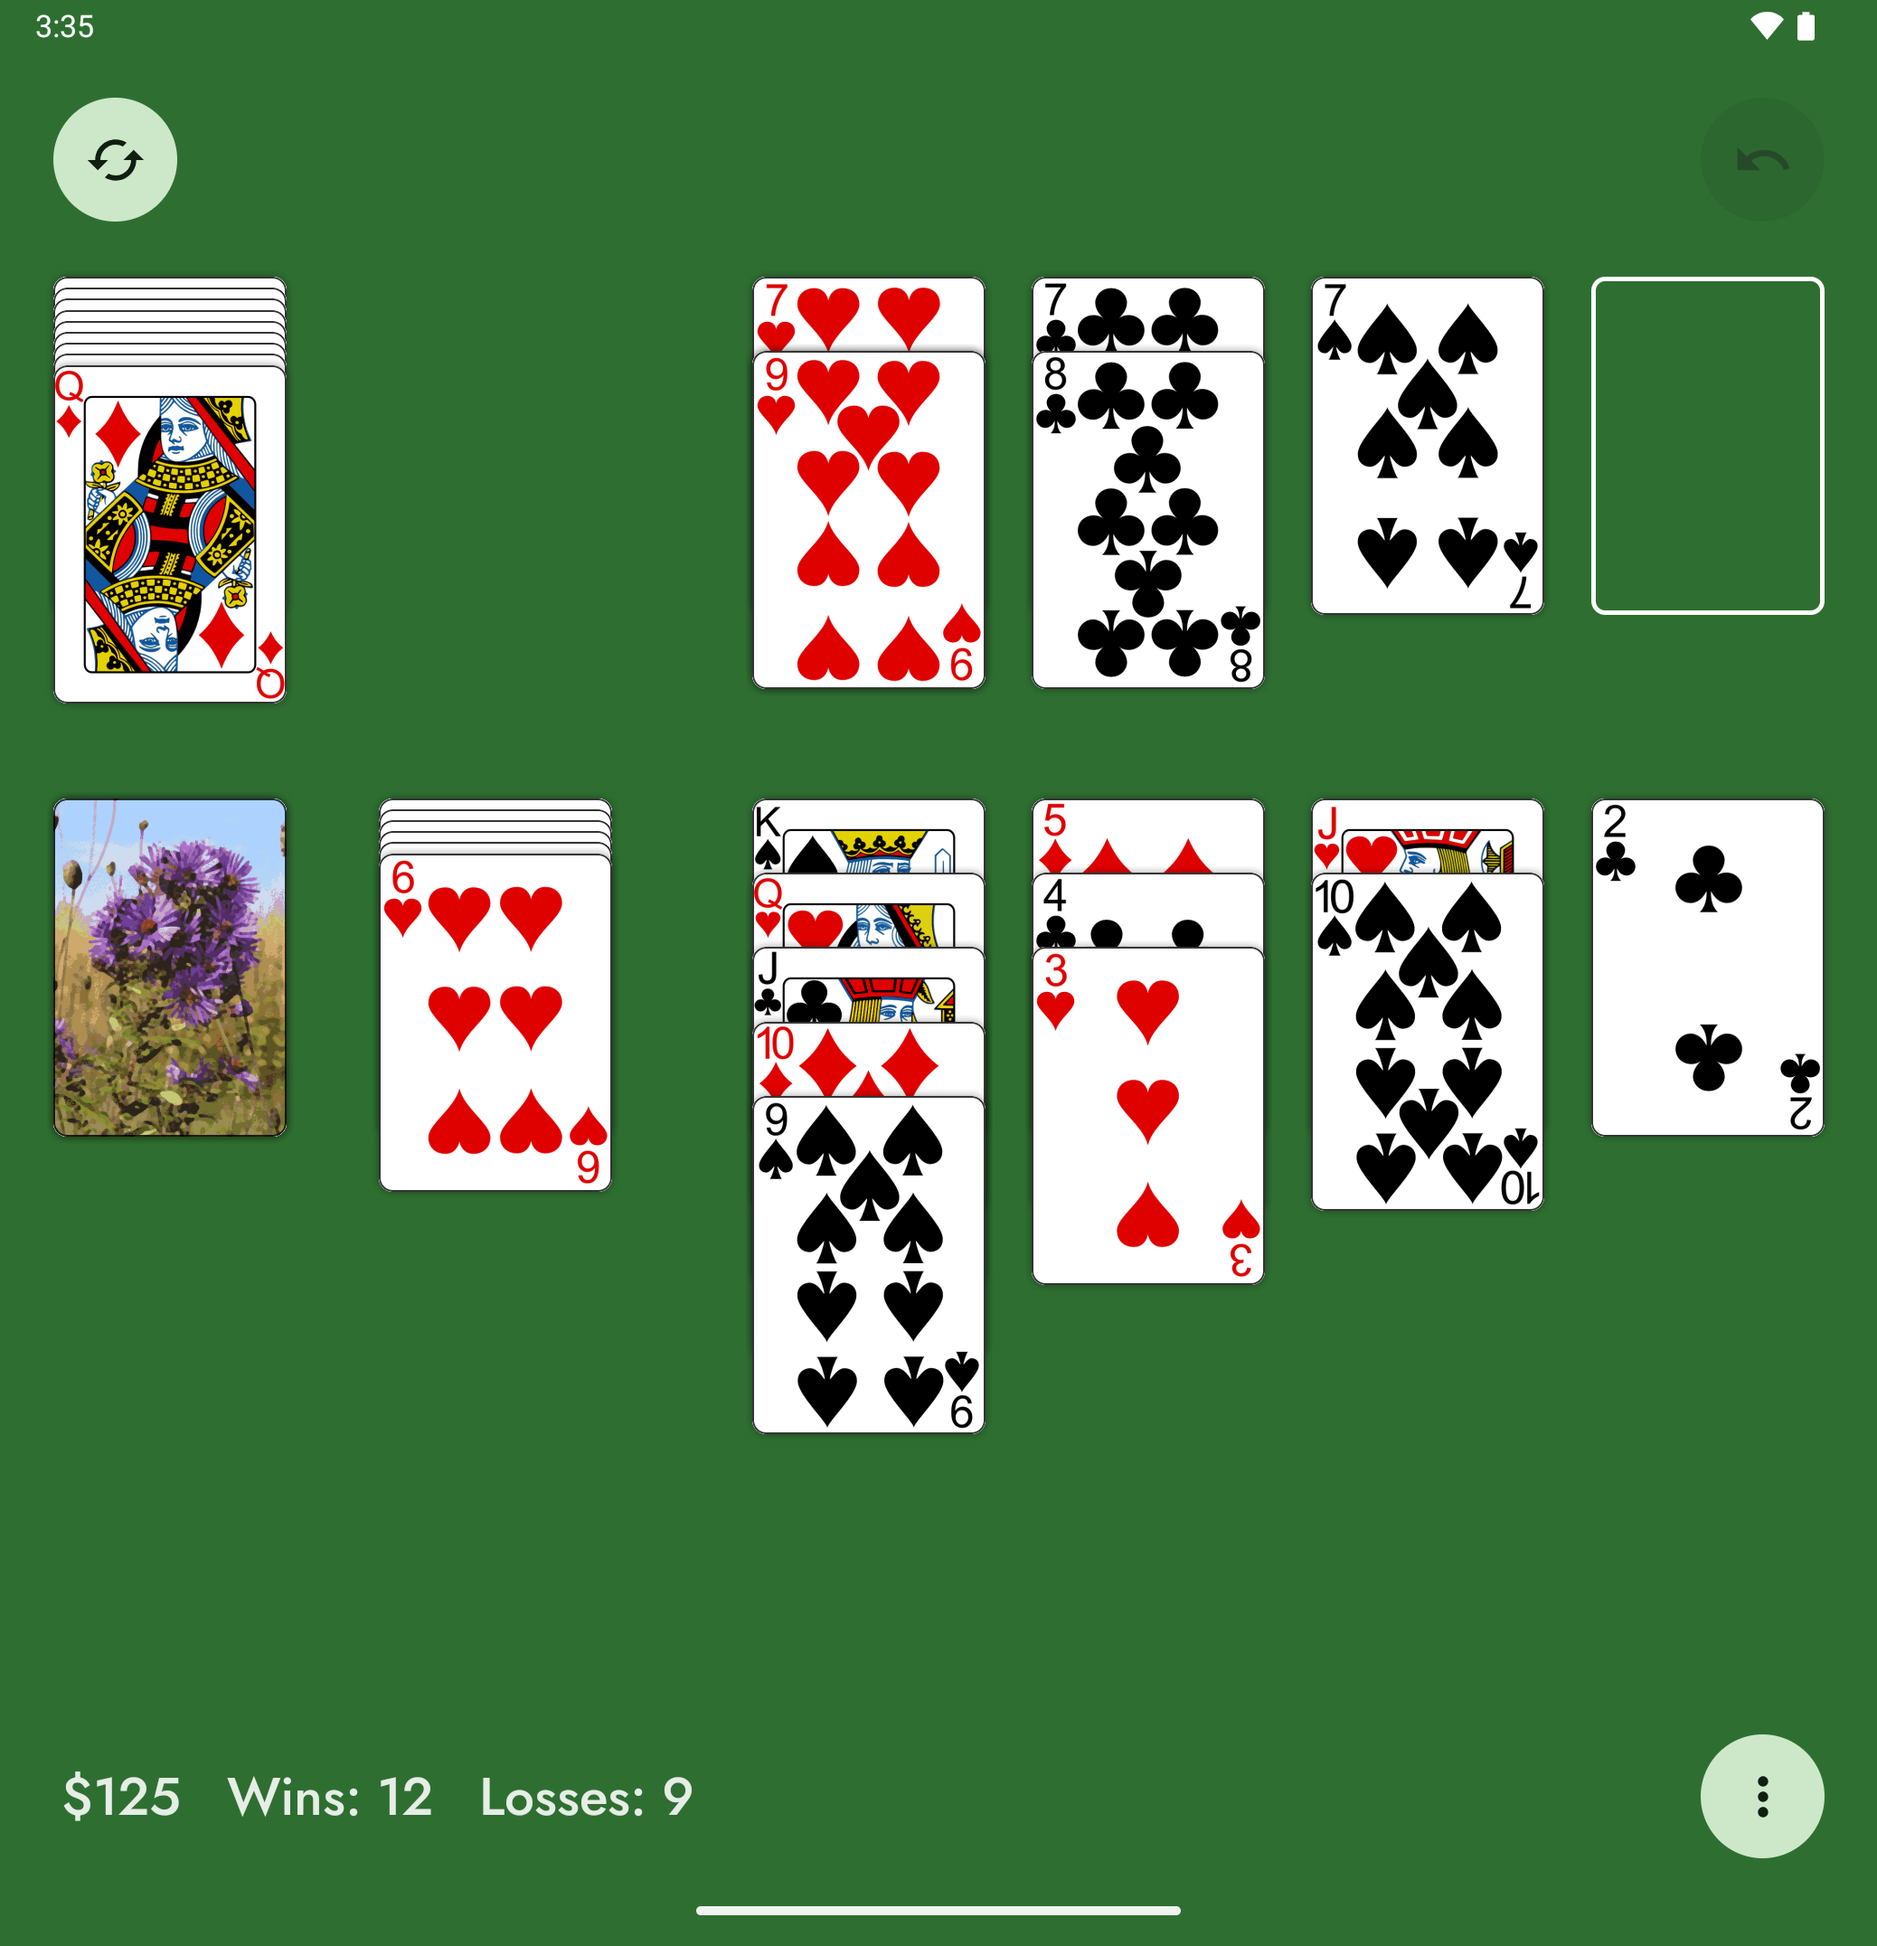
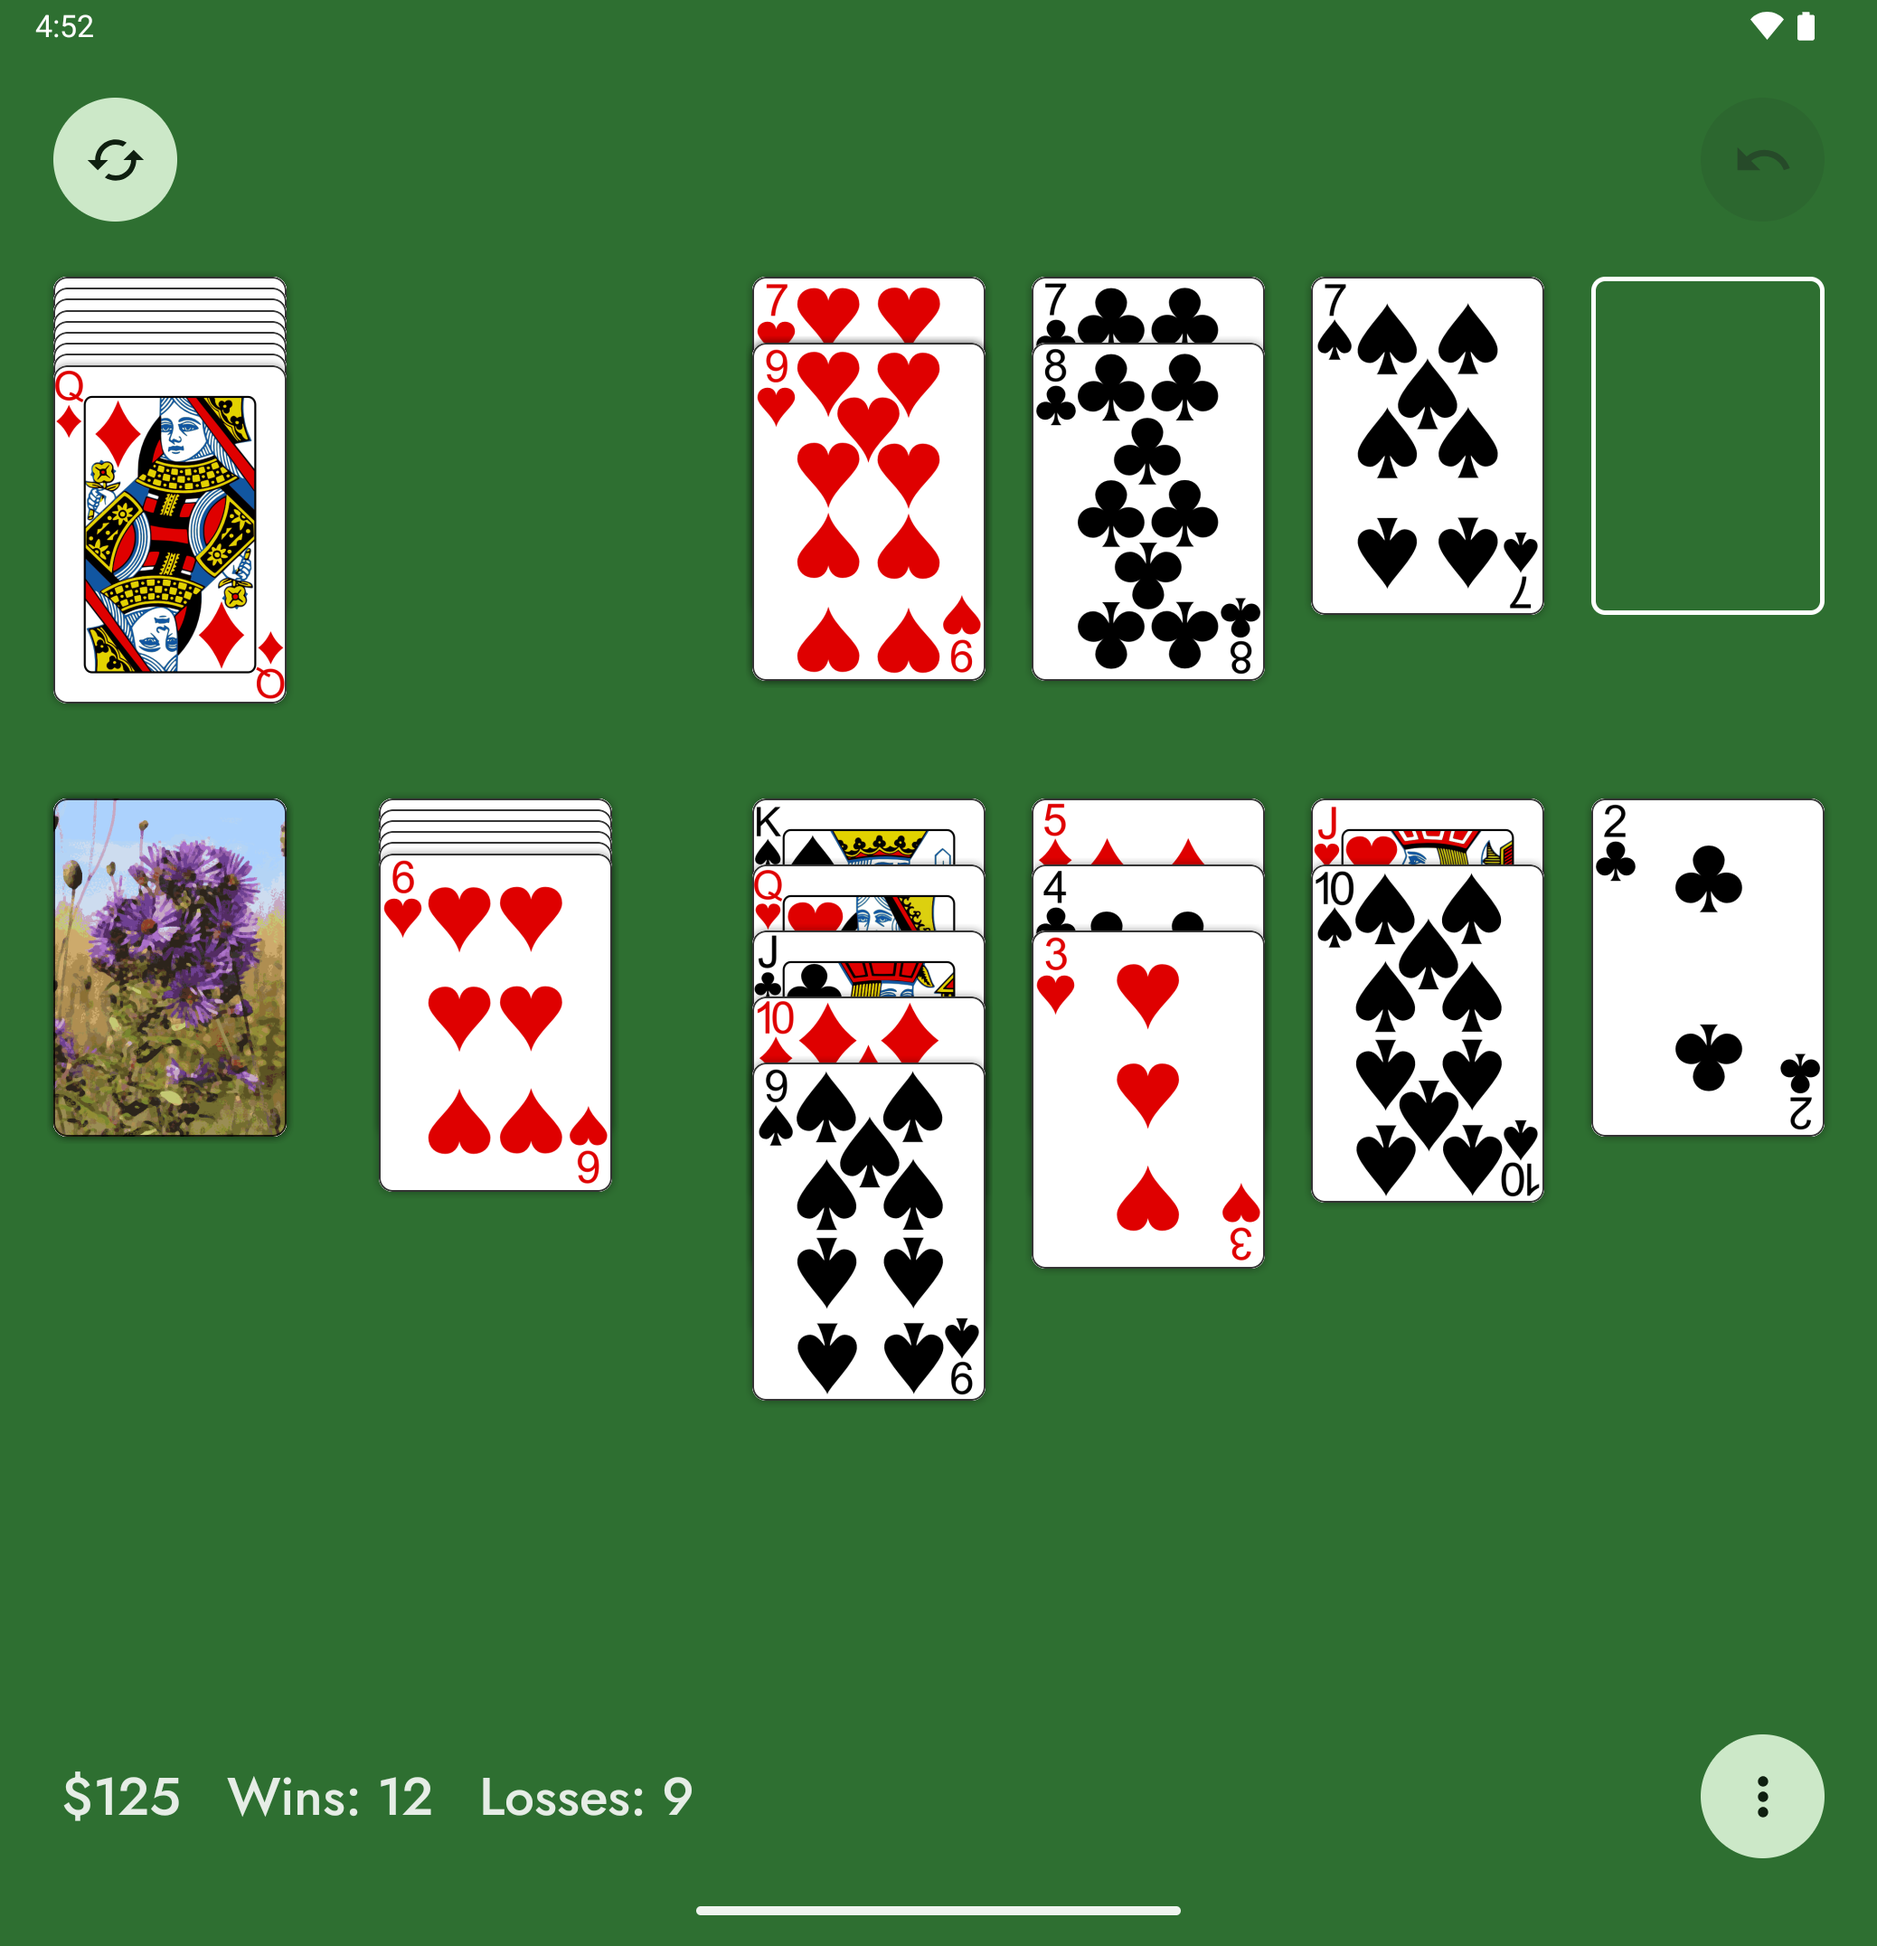
Lay out Android tablets in landscape as the iPad does
A roomy table in landscape now follows the iPad: cards a 2.8th of the room above the score's row, stacks fanned
30dp apart, the lower stacks stopping above that row, and the "nothing to play" banner beside the menu button.
Tablet portrait already matched the iPad's 7.6 card widths; it now fans its stacks 30dp apart as well.  Phones
keep their own landscape layout, whose lower stacks run to the bottom of the screen so they can be read.

Claude-Session: https://claude.ai/code/session_01CE1d5xP9GvDtiA7Rei4bWG

diff --git a/android/app/src/main/kotlin/net/dseelig/suzesolitaire/ui/TableLayout.kt b/android/app/src/main/kotlin/net/dseelig/suzesolitaire/ui/TableLayout.kt
@@ -26,10 +26,12 @@ data class Insets(val left: Float = 0f, val top: Float = 0f, val right: Float = 
 // - Portrait: the blind over the deck and deal on the left, the four upper stacks over the four lower ones on the right,
 //   lined up with the outer edges of New Game and Undo.
 // - Landscape: two long rows between New Game and Undo, starting level with them: the blind, deck and deal, then the upper
-//   stacks; and the lower stacks below the upper ones, running down to the bottom of the screen beside the menu button.
-//   The score and the banner go in the bottom left corner, under the blind, deck and deal.
+//   stacks; and the lower stacks below the upper ones.  On a tablet, as on the iPad, the cards stop above the row of the
+//   score and menu button, and the banner goes in that row, beside the menu button.  A phone needs more room to read its
+//   lower stacks than the iPhone layout gives them, so they run down to the bottom of the screen beside the menu button,
+//   and the score and the banner go in the bottom left corner, under the blind, deck and deal.
 // - A roomy window (600dp or more both ways: a tablet, or a foldable unfolded) gets bigger buttons and margins, the large
-//   card art, and cards a little closer together; anything smaller gets the phone layout.
+//   card art, cards a little closer together, and stacks fanned a fixed 30dp; anything smaller gets the phone layout.
 class TableLayout(val width: Float, val height: Float, val insets: Insets = Insets()) {
     val roomy = min(width, height) >= 600f
     val landscape = width > height
@@ -71,10 +73,10 @@ class TableLayout(val width: Float, val height: Float, val insets: Insets = Inse
             val top = undo.top
             val left = newGame.right + 16f
             val right = undo.left - 16f
-            lowerBottom = height - max(insets.bottom + 4f, 12f)
-            tableBottom = portraitBottom
+            tableBottom = if (roomy) menu.top - 8f else portraitBottom
+            lowerBottom = if (roomy) tableBottom else height - max(insets.bottom + 4f, 12f)
             // Two rows of cards, the upper stacks' starters peeking out, and room to fan the lower stacks
-            var h = (lowerBottom - top) / 3.4f
+            var h = (lowerBottom - top) / (if (roomy) 2.8f else 3.4f)
             var w = h / ASPECT
             var gap = w / (if (roomy) 8f else 5f)
             val stacksGap = if (roomy) 0.4f else 0.6f
@@ -85,8 +87,8 @@ class TableLayout(val width: Float, val height: Float, val insets: Insets = Inse
             }
             val rowLeft = left + (right - left - rowWidth()) / 2
             // Enough of the upper stacks' first card shows to read it, and of each card in a lower stack
-            val peek = if (roomy) h * 0.15f else h * 0.3f
-            val second = top + h + max(peek, if (roomy) 30f else 0f) + h * 0.08f
+            val peek = if (roomy) ROOMY_SLICE else h * 0.3f
+            val second = top + h + peek + h * (if (roomy) 0.1f else 0.08f)
             spots[Spot.Blind] = rowLeft to top
             spots[Spot.Deck] = rowLeft + w + gap to top
             spots[Spot.Deal] = rowLeft + 2 * (w + gap) to top
@@ -96,9 +98,10 @@ class TableLayout(val width: Float, val height: Float, val insets: Insets = Inse
                 spots[Spot.lower(i)] = stacksLeft + i * (w + gap) to second
             }
             cardWidth = w; cardHeight = h
-            // The large art's corner index takes about a fifth of the card
-            baseSlice = if (roomy) h * 0.22f else peek
-            score = Box(buttonsLeft + 4f, menu.top, max(0f, stacksLeft - 16f - buttonsLeft - 4f), buttonSize)
+            baseSlice = peek
+            // On a tablet the score leaves the rest of the row to the banner
+            val scoreRight = if (roomy) min(buttonsLeft + 4f + ROOMY_SCORE_WIDTH, menu.left - 16f) else stacksLeft - 16f
+            score = Box(buttonsLeft + 4f, menu.top, max(0f, scoreRight - buttonsLeft - 4f), buttonSize)
         }
         else {
             val left = newGame.left
@@ -118,7 +121,7 @@ class TableLayout(val width: Float, val height: Float, val insets: Insets = Inse
                 spots[Spot.lower(i)] = x to second
             }
             cardWidth = w; cardHeight = h
-            baseSlice = if (roomy) h * 0.22f else h / 2.5f
+            baseSlice = if (roomy) ROOMY_SLICE else h / 2.5f
             tableBottom = portraitBottom
             lowerBottom = portraitBottom
             score = Box(buttonsLeft + 4f, menu.top, max(0f, menu.left - 16f - buttonsLeft - 4f), buttonSize)
@@ -165,12 +168,20 @@ class TableLayout(val width: Float, val height: Float, val insets: Insets = Inse
     }
 
     // How wide the banner may be
-    val bannerMaxWidth: Float get() = if (landscape) score.width else width - 32f
+    val bannerMaxWidth: Float get() = when {
+        landscape && roomy -> max(0f, menu.left - BANNER_SPACING - score.right - BANNER_SPACING)
+        landscape -> score.width
+        else -> width - 32f
+    }
 
-    // Where the "nothing to play" banner goes: centered just above the menu button and the score in portrait, or in
-    // landscape above the score, in the corner the blind, deck and deal leave free
+    // Where the "nothing to play" banner goes: centered just above the menu button and the score in portrait; in a
+    // tablet's landscape beside the menu button, level with it; or in a phone's landscape above the score, in the corner
+    // the blind, deck and deal leave free
     fun banner(bannerWidth: Float): Box =
-        if (landscape) {
+        if (landscape && roomy) {
+            Box(menu.left - BANNER_SPACING - bannerWidth, menu.centerY - BANNER_HEIGHT / 2, bannerWidth, BANNER_HEIGHT)
+        }
+        else if (landscape) {
             Box(score.left, menu.top - BANNER_SPACING - BANNER_HEIGHT, bannerWidth, BANNER_HEIGHT)
         }
         else {
@@ -185,5 +196,9 @@ class TableLayout(val width: Float, val height: Float, val insets: Insets = Inse
         const val FANNED_SLICE = 5f
         const val BANNER_HEIGHT = 48f
         const val BANNER_SPACING = 8f
+        // How far apart a roomy table fans its stacks, as the iPad does
+        const val ROOMY_SLICE = 30f
+        // Room for the score, wins and losses beside the banner in a tablet's landscape
+        const val ROOMY_SCORE_WIDTH = 360f
     }
 }

diff --git a/android/app/src/test/kotlin/net/dseelig/suzesolitaire/ui/TableLayoutTest.kt b/android/app/src/test/kotlin/net/dseelig/suzesolitaire/ui/TableLayoutTest.kt
@@ -93,8 +93,8 @@ class TableLayoutTest {
         for ((name, t) in windows) {
             // A full run, King down to Ace
             val long = t.stackBox(Spot.lower(0), 13)
-            // In landscape the lower stacks run down beside the menu button, to the bottom of the screen
-            val bottom = if (t.landscape) t.height - t.insets.bottom else t.tableBottom
+            // In a phone's landscape the lower stacks run down beside the menu button, to the bottom of the screen
+            val bottom = if (t.landscape && !t.roomy) t.height - t.insets.bottom else t.tableBottom
             assertTrue("$name: ${long.bottom} vs $bottom", long.bottom <= bottom + 0.5f)
             assertFalse("$name: a long stack runs into the menu button", long.intersects(t.menu))
             val blind = t.stackBox(Spot.Blind, 13)
@@ -109,7 +109,13 @@ class TableLayoutTest {
             val banner = t.banner(minOf(300f, t.bannerMaxWidth))
             assertFalse("$name: banner over the menu button", banner.intersects(t.menu))
             assertFalse("$name: banner over the score", banner.intersects(t.score))
-            assertTrue(name, banner.bottom <= t.menu.top)
+            if (t.landscape && t.roomy) {
+                assertEquals("$name: banner level with the menu button", t.menu.centerY, banner.centerY, 0.01f)
+                assertTrue("$name: banner beside the score", banner.left > t.score.right)
+            }
+            else {
+                assertTrue(name, banner.bottom <= t.menu.top)
+            }
             for (spot in Spot.all) {
                 assertFalse("$name: banner over $spot", banner.intersects(t.outline(spot)))
             }
